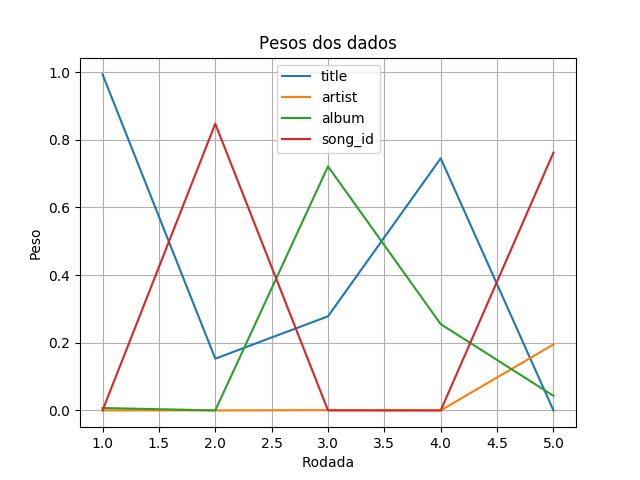
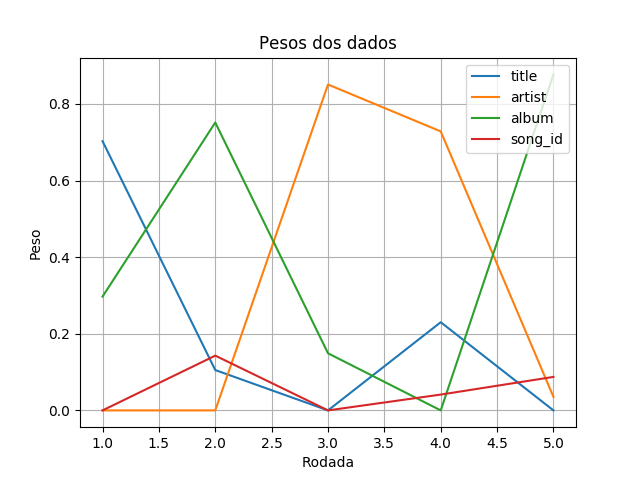
imprimindo resultados em graficos

diff --git a/main.py b/main.py
@@ -79,26 +79,22 @@ def experiment_cicles(cicles=5, set_size=500):
         )
         print('+ Busca Terminada')
         print('Salvando informações')
-        df2 = pd.DataFrame(
+        #
+        weight_df = pd.concat([weight_df, pd.DataFrame(
             [[i for i in list(groot.get_classifier().feature_importances_)]],
             columns=[i for i in list(groot.get_song_features())],
-        )
-        frames = [weight_df, df2]
-        weight_df = pd.concat(frames)
+        )])
         #
-        df2 = pd.DataFrame(
+        evaluate_df = pd.concat([evaluate_df, pd.DataFrame(
             [[i for i in evaluate_results.values()]],
             columns=[x for x in evaluate_results],
-        )
-        frames = [evaluate_df, df2]
-        evaluate_df = pd.concat(frames)
+        )])
         #
-        df2 = pd.DataFrame(
-            [[similarity]],
-            columns=['similaridade'],
-        )
-        frames = [evaluate_df, df2]
-        similarity_df = pd.concat(frames)
+        similarity_df = pd.concat([similarity_df,
+                  pd.DataFrame(
+                      [[similarity]],
+                      columns=['similaridade'],
+                  )])
     plot_feature_importance(weight_df)
     plot_evaluations(evaluate_df)
     plot_similarity(similarity_df)

diff --git a/simulated.py b/simulated.py
@@ -73,8 +73,8 @@ def covert(distance_matrix, song_stages):
 def environment(groot, song_stages, DEBUG=True):
     finished = covert(groot.get_distance_matrix(), song_stages)
     time_to_try = 0
-    similarity = []
-    while not finished['finished'] or time_to_try <= CHANCE:
+    similarity = 0
+    while not finished['finished'] and time_to_try <= CHANCE:
         finished = covert(groot.get_distance_matrix(), song_stages)
         time_to_try += 1
         similarity = finished['similarity']

diff --git a/graphics.py b/graphics.py
@@ -53,6 +53,7 @@ def plot_evaluations(df):
 
 
 def plot_similarity(df):
+    print(df)
     directory = str(
         'results/'
     )
@@ -65,8 +66,7 @@ def plot_similarity(df):
     plt.ylabel('Valor')
     plt.plot(
         [i + 1 for i in range(df['similaridade'].count())],
-        df['similaridade'].tolist(),
-        label=str('similaridade')
+        df['similaridade'].tolist()
     )
     plt.legend(loc='best')
     plt.savefig(
